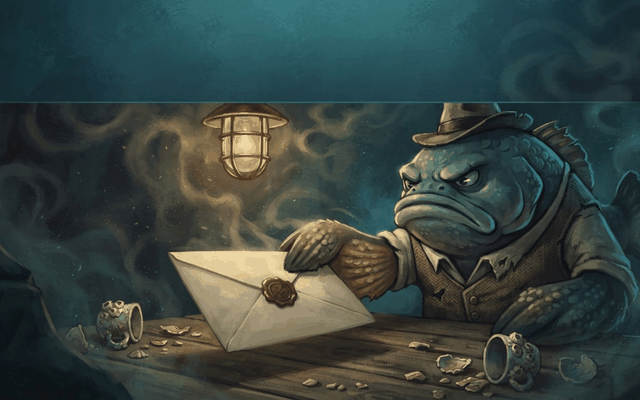
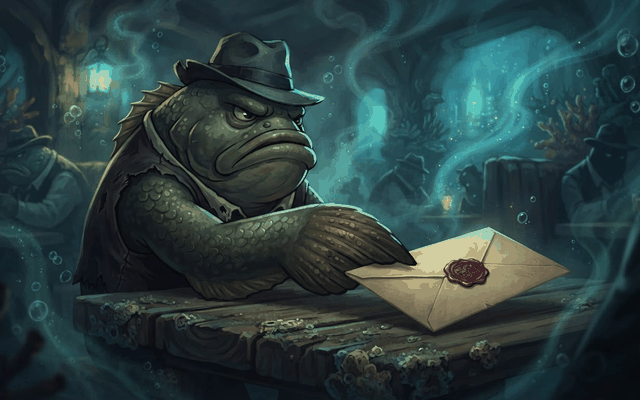
Add generated Demand Letter art and unique playable character sprites
- Regenerate public/card-art/demand_letter.png with gen_asset.py and
  assign it to the Demand Letter card ("art": "demand_letter"). The card
  edit also changes fx to shock and clears its log line.
- Generate a sprite per playable character and set their icons:
  guppy_debtor (Guppy), puffer_enforcer (Puffer),
  character_m_x_mswwixoj (Mi do xo), replacing the shared hero/domixi.
- Update CHANGELOG.

diff --git a/CHANGELOG.md b/CHANGELOG.md
@@ -8,7 +8,8 @@
 
 ### Added
 - **Placeholder sprites:** `public/sprites/placeholder-enemy.png`, `placeholder-player.png`, `placeholder-summon.png` (currently copies of thug/hero/goon, to be replaced with dedicated placeholder art).
-- **Demand Letter card art (test):** `public/card-art/demand_letter.png`, generated with the new `gen_asset.py` art tool as a pipeline test. Not yet assigned to the card (no `"art"` field set).
+- **Demand Letter card art:** `public/card-art/demand_letter.png`, generated with the new `gen_asset.py` art tool and assigned to the card (`"art": "demand_letter"`).
+- **Playable character sprites:** each playable character now has its own generated sprite instead of sharing `hero`/`domixi` — `guppy_debtor.png` (Guppy), `puffer_enforcer.png` (Puffer), `character_m_x_mswwixoj.png` (Mị đô xô), set as their `"icon"` in `character-database.json`.
 
 ### Fixed
 - **Shallows boss stage uses wrong boss:** `stage_boss_alpha` placed `collection_shark` (The Collection Shark, the midwaters boss) instead of `boss_thug` (Barnacle Brute, the shallows boss). This made the first zone's boss harder than intended and showed the wrong boss fish. `battleSetupForNode` uses authored stages with priority, so this affected every shallows boss fight.
